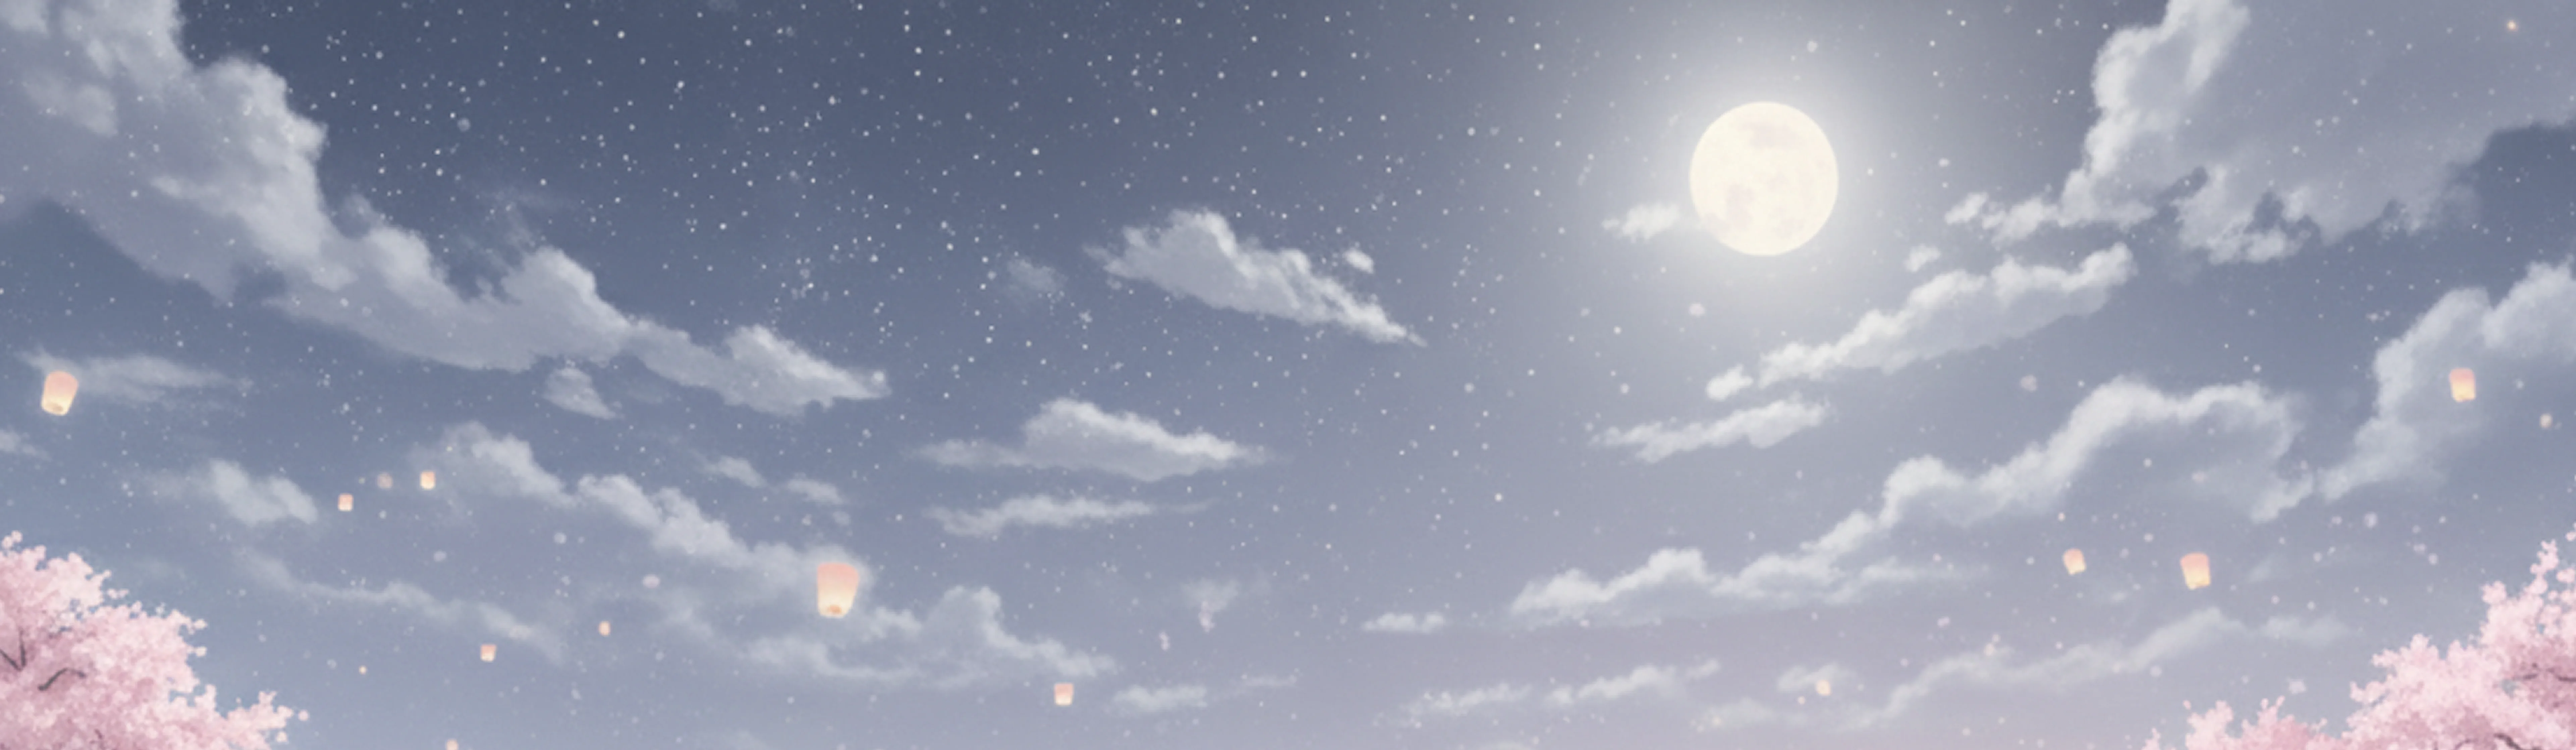
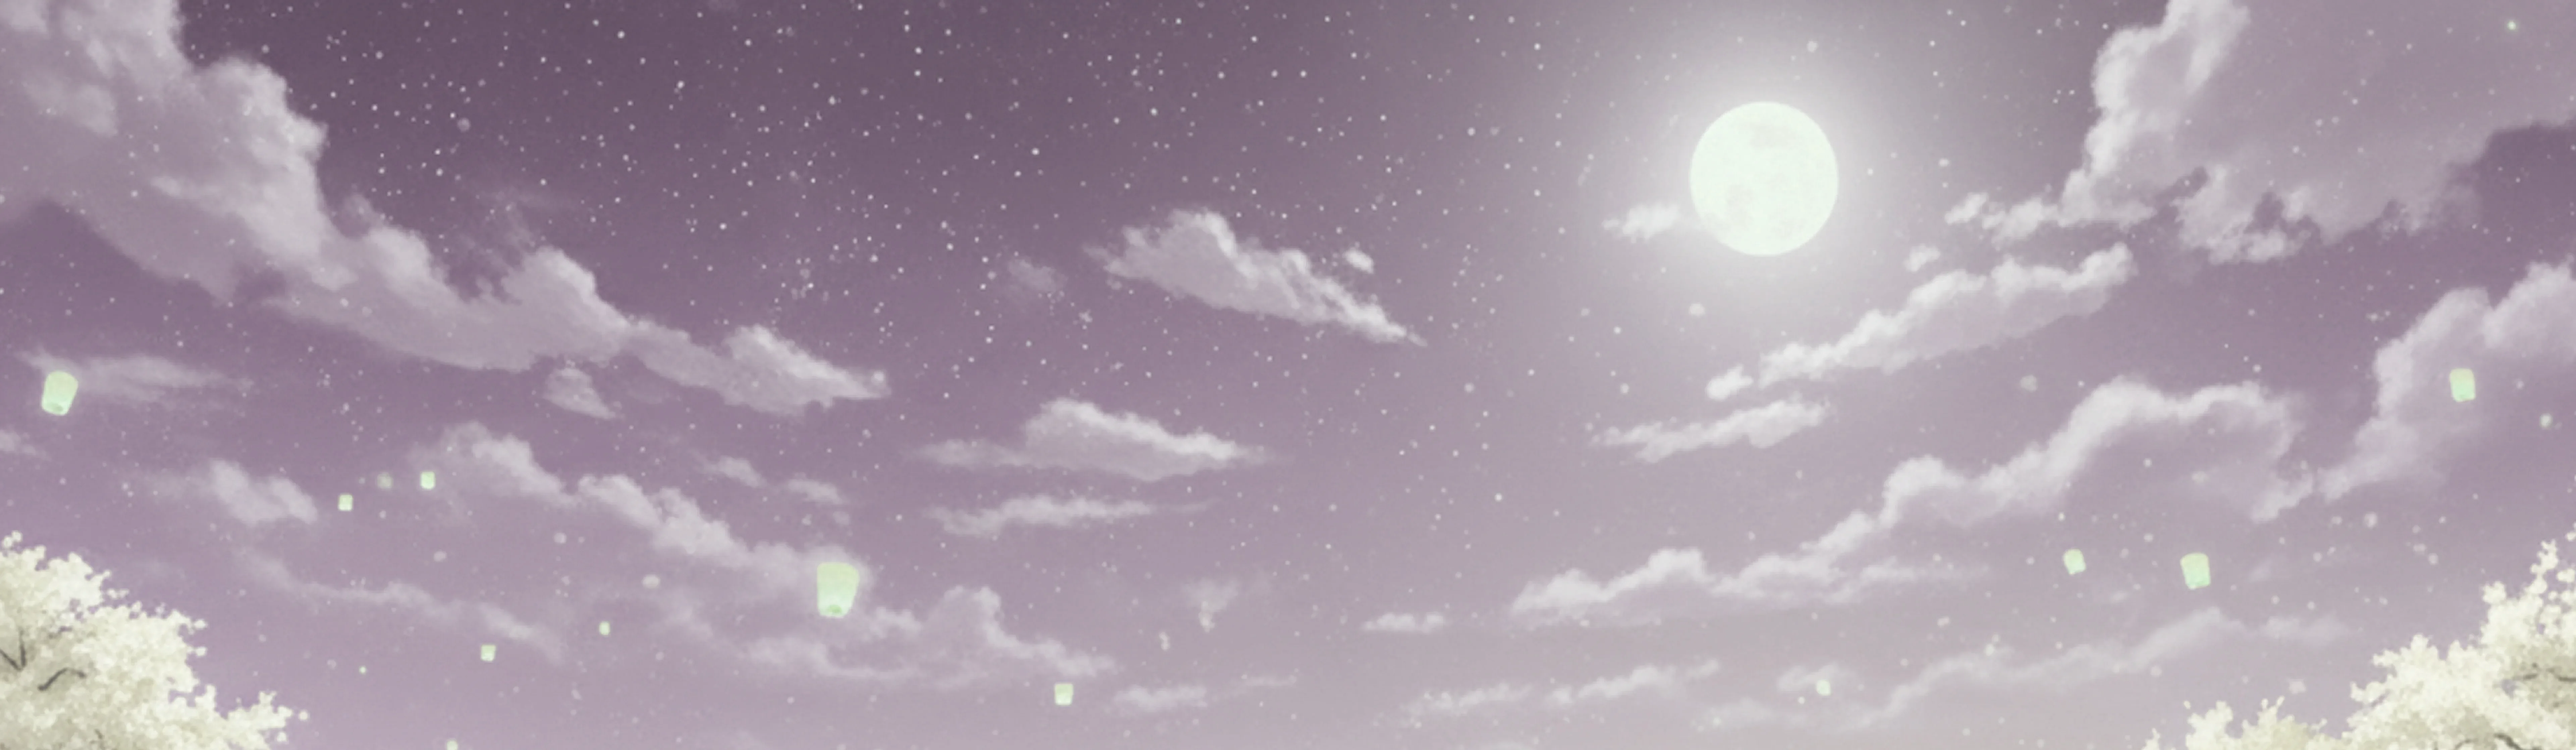
Daylight valley art and an olive CTA bloom
The daybreak reveal, migration section, guarantees band, and the pastel
process cards now use a brand-native sunlit valley in place of the
template's cherry-blossom daylight scene.

The closing CTA loses its violet: the overlay gradient becomes deep
olive and the cloud plate is retinted off magenta. Remaining violet
accents follow, with the docs-PR card, banner chip tone, and one banner
light streak moving to slate and olive.

diff --git a/src/components/sections/cta.tsx b/src/components/sections/cta.tsx
@@ -6,13 +6,13 @@ import { SplitReveal } from "@/components/motion/split-reveal";
 import { DESTINATIONS } from "@/lib/site";
 
 /**
- * Template cta-section: night sky with a violet bloom, centered heading,
+ * Template cta-section: night sky with an olive bloom, centered heading,
  * white CTA, and a large product frame that overhangs into the footer.
  */
 export function CTA() {
   return (
     <section className="relative z-[1] overflow-hidden pt-[120px]">
-      {/* Background: blurred dusk clouds under a night -> violet gradient */}
+      {/* Background: blurred dusk sky under a night -> olive gradient */}
       <div aria-hidden className="absolute inset-0 -z-10 overflow-hidden rounded-b-[52px]">
         <img
           src="/template/cta-bg.webp"
@@ -21,7 +21,7 @@ export function CTA() {
         />
         <div
           className="absolute inset-0 mix-blend-hard-light"
-          style={{ backgroundImage: "linear-gradient(#000104 40%, rgba(96,55,173,0.6))" }}
+          style={{ backgroundImage: "linear-gradient(#000104 40%, rgba(115,121,56,0.55))" }}
         />
       </div>
 

diff --git a/src/components/feature-template/feature-template.tsx b/src/components/feature-template/feature-template.tsx
@@ -99,7 +99,7 @@ export function FeatureBanner({
       {/* Glowing edge streaks, template banner light lines */}
       <div
         aria-hidden
-        className="pointer-events-none absolute top-[10%] left-[7%] h-[440px] w-[3px] rounded-full bg-gradient-to-b from-transparent via-sky-300/50 to-transparent blur-[1px]"
+        className="pointer-events-none absolute top-[10%] left-[7%] h-[440px] w-[3px] rounded-full bg-gradient-to-b from-transparent via-[#a9b578]/45 to-transparent blur-[1px]"
       />
       <div
         aria-hidden
@@ -225,7 +225,7 @@ const CHIP_TONES: Record<BoardChip["tone"], string> = {
   high: "bg-[#ff8da1]/20 text-[#ffb3c0]",
   med: "bg-[#ffd58a]/20 text-[#ffe0a8]",
   low: "bg-[#8ecf9a]/20 text-[#b2e0bb]",
-  purple: "bg-[#b9a3e2]/20 text-[#cdbcec]",
+  purple: "bg-[#7d8a9c]/18 text-[#a9b6c4]",
   kind: "bg-white/10 text-white/70",
 };
 

diff --git a/src/components/sections/hero.tsx b/src/components/sections/hero.tsx
@@ -273,7 +273,7 @@ function DashboardCollage() {
               <Meta due="Mon" links={2} />
             </div>
           </div>
-          <div className={`${cardBase} border-[#8a7bb0]/20 bg-[#12101a]/95`}>
+          <div className={`${cardBase} border-[#7d8a9c]/20 bg-[#0d1116]/95`}>
             <CardHead chips={[["Review", "low"], ["Docs PR", "kind"]]} id="#84" />
             <p className="mt-2 font-mono text-[12px] leading-snug font-medium text-white/90">docs: webhook secrets</p>
             <p className="mt-1 text-[10px] leading-relaxed text-white/40">Drafted by Thally, awaiting review.</p>
